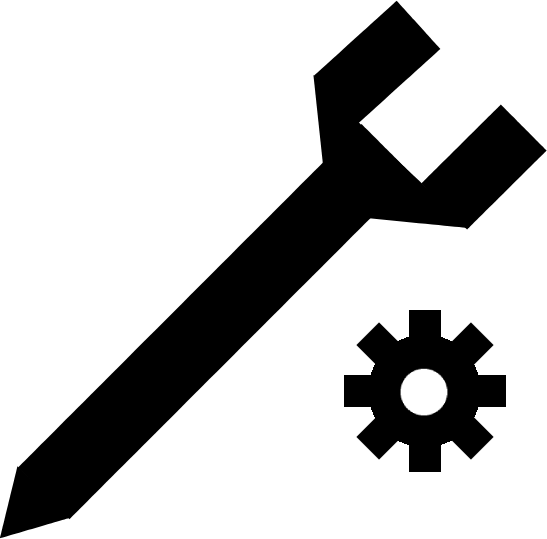
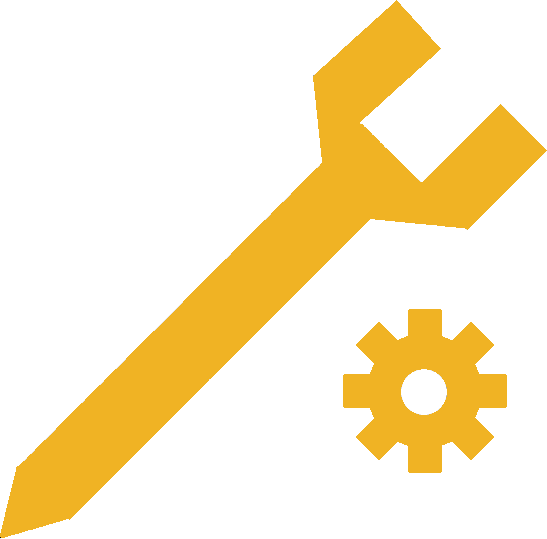
Fikset på både html og css til hjem og Admin_dashboard.jsp

Changed region(s): [[0.0, 0.0, 1.0, 1.0], [0.6216, 0.564, 0.9324, 0.8905]]

diff --git a/src/main/webapp/styles.css b/src/main/webapp/styles.css
@@ -6,34 +6,37 @@ html {
 
 body {
     font-family: "Lato", Calibri, Arial, sans-serif;
-    background-color: #f0f0f0;
+    background-color: #f0b324;
     font-size: 2rem;
     text-align: center;
+    color: #041e43;
 
 }
 
 /* Style the links inside the navigation bar */
 button  {
-    color: #f2f2f2;
-    background-color: cornflowerblue;
+    color: #f0b324;
+    background-color: #041e43;
     padding: 1Rem 3.5Rem;
     text-decoration: none;
     font-size: 2Rem;
     margin: 3Rem;
+    border-style: none;
+    border-radius: 25px;
 }
 
-nav a{
-    color: #f2f2f2;
-    background-color: cornflowerblue ;
-    font-size: 3Rem;
-    padding: 2Rem 1Rem;
-    margin-top: 1Rem;
+.nav-button{
+    font-size: 25px;
+    width: 25%;
+    padding: 20px 30px;
+    margin: 10px 15px;
+
 }
 
 
 /* Change the color of links on hover */
-nav a:hover, nav a.active:hover, button:hover {
-    background-color: #F0D0C9;
+button a:hover, button:hover {
+    background-color: #0b4596;
     color: black;
 }
 
@@ -58,9 +61,13 @@ li {
 
 
 }
-.adminButtons a {
+
+
+.adminButtons img {
     height: 25px;
     width: 25px;
+    color: #f0b324;
+    align-content: center;
 }
 
 
@@ -73,13 +80,7 @@ li {
 
 }
 
-a {
-    color: #f2f2f2;
-    background-color: cornflowerblue ;
-    font-size: 3Rem;
-    padding: 2Rem 1Rem;
-    margin-top: 1Rem;
-}
+
 
 
 

diff --git a/target/bacit-web-1.0-SNAPSHOT/styles.css b/target/bacit-web-1.0-SNAPSHOT/styles.css
@@ -6,34 +6,37 @@ html {
 
 body {
     font-family: "Lato", Calibri, Arial, sans-serif;
-    background-color: #f0f0f0;
+    background-color: #f0b324;
     font-size: 2rem;
     text-align: center;
+    color: #041e43;
 
 }
 
 /* Style the links inside the navigation bar */
 button  {
-    color: #f2f2f2;
-    background-color: cornflowerblue;
+    color: #f0b324;
+    background-color: #041e43;
     padding: 1Rem 3.5Rem;
     text-decoration: none;
     font-size: 2Rem;
     margin: 3Rem;
+    border-style: none;
+    border-radius: 25px;
 }
 
-nav a{
-    color: #f2f2f2;
-    background-color: cornflowerblue ;
-    font-size: 3Rem;
-    padding: 2Rem 1Rem;
-    margin-top: 1Rem;
+.nav-button{
+    font-size: 25px;
+    width: 25%;
+    padding: 20px 30px;
+    margin: 10px 15px;
+
 }
 
 
 /* Change the color of links on hover */
-nav a:hover, nav a.active:hover, button:hover {
-    background-color: #F0D0C9;
+button a:hover, button:hover {
+    background-color: #0b4596;
     color: black;
 }
 
@@ -58,9 +61,13 @@ li {
 
 
 }
-.adminButtons a {
+
+
+.adminButtons img {
     height: 25px;
     width: 25px;
+    color: #f0b324;
+    align-content: center;
 }
 
 
@@ -73,13 +80,7 @@ li {
 
 }
 
-a {
-    color: #f2f2f2;
-    background-color: cornflowerblue ;
-    font-size: 3Rem;
-    padding: 2Rem 1Rem;
-    margin-top: 1Rem;
-}
+
 
 
 

diff --git a/src/main/java/bacit/web/bacit_web/models/HtmlModel.java b/src/main/java/bacit/web/bacit_web/models/HtmlModel.java
@@ -13,10 +13,9 @@ public class HtmlModel {
             "\n" +
             "\n" +
             "<nav>\n" +
-            "    <a class=\"active\" href=\"../SiteUser/home.jsp\">Hjemme</a>\n" +
-            "    <a href=\"../index.jsp\">Log inn</a>\n" +
-            "    <a href=\"../SiteUser/DinProfil.jsp\">Din Profil</a>\n" +
-            "    <a href=\"../SiteUser/DineBestillinger.jsp\">Dine Bestillinger</a>\n" +
+            "    <a class=\"active\" href=\"../SiteUser/home.jsp\"><button type =\"button\" class=\"nav-button\">Hjem</button></a>\n" +
+            "    <a href=\"../SiteUser/DinProfil.jsp\"><button type =\"button\" class=\"nav-button\">Din Profil</button></a>\n" +
+            "    <a href=\"../SiteUser/DineBestillinger.jsp\"><button type =\"button\" class=\"nav-button\">Dine Bestillinger</button></a>\n" +
             "</nav>";
 
     private static String footer = "</body>\n" +
